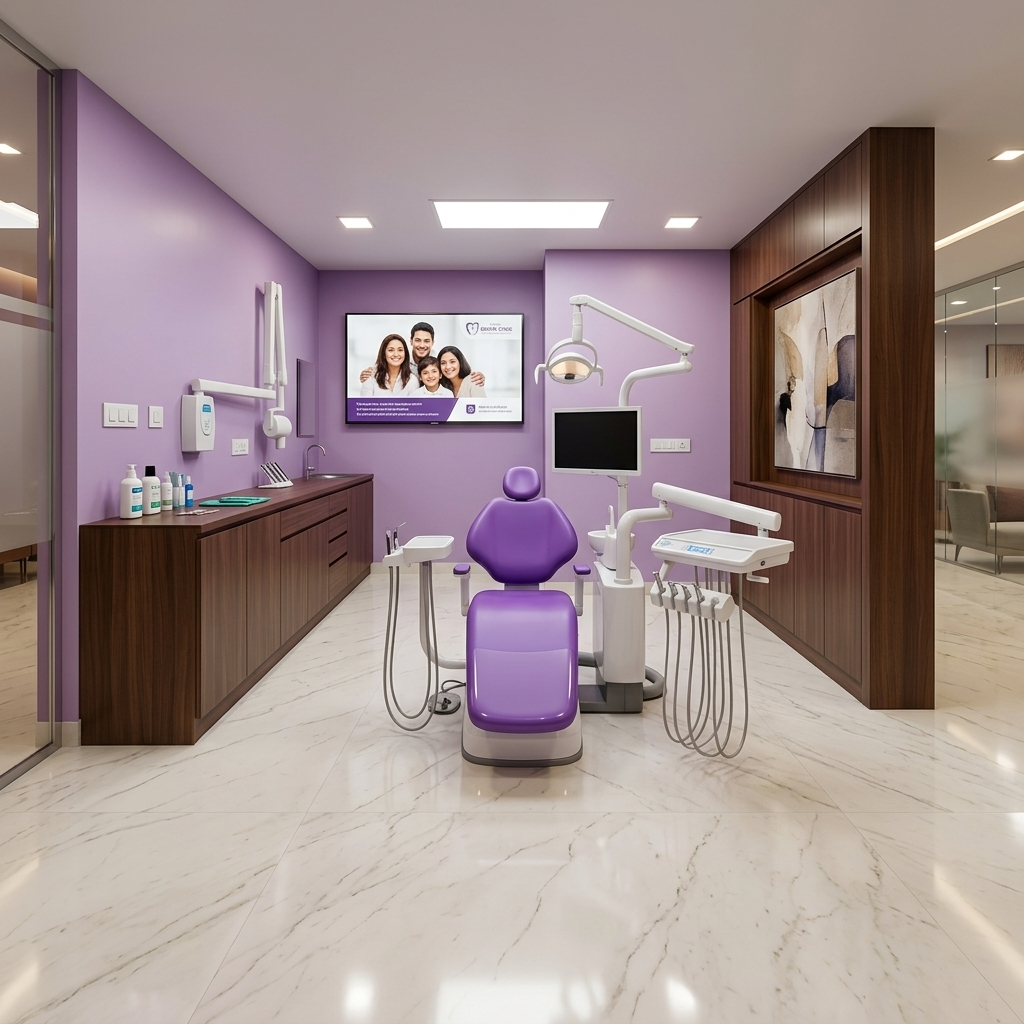
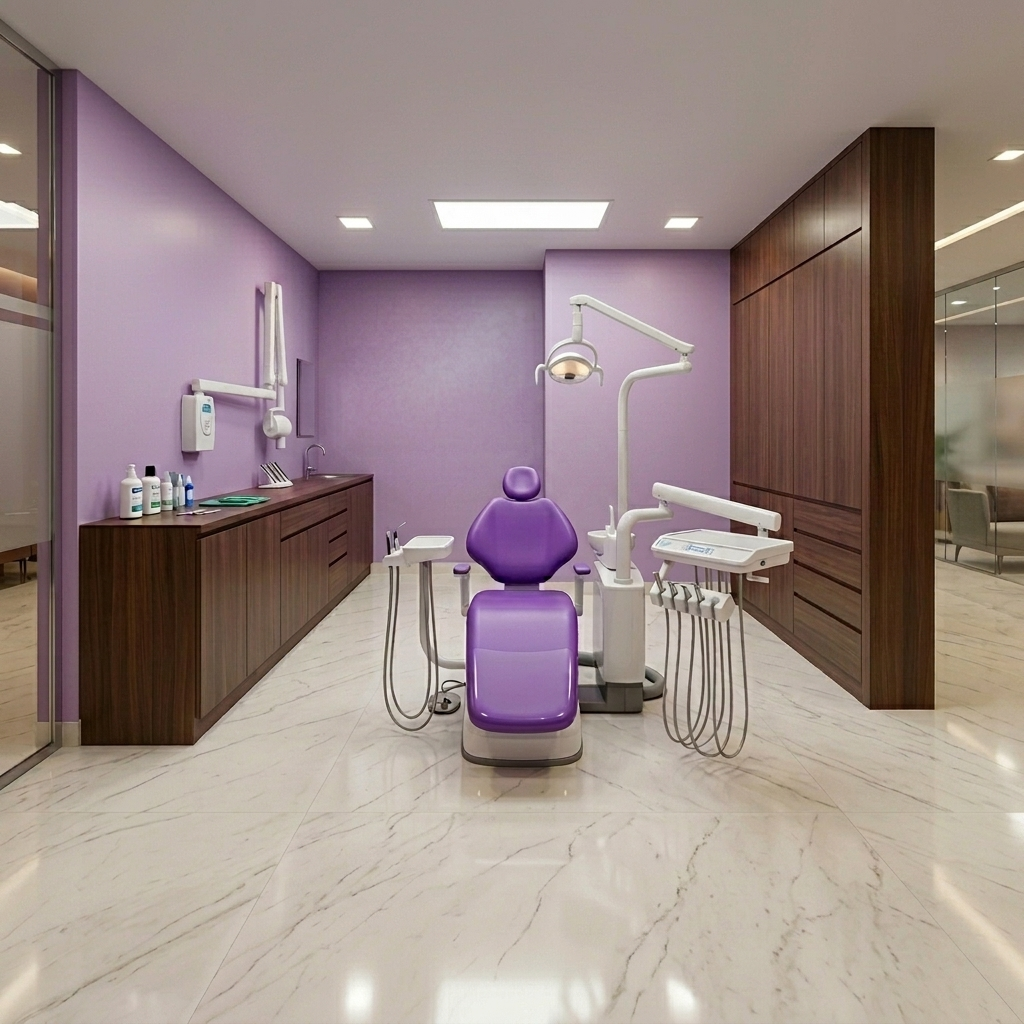
Update hero image to clean version and adjust alignment for better chair visibility

diff --git a/src/index.css b/src/index.css
@@ -4127,7 +4127,7 @@ h3 {
   width: 100%;
   height: 100%;
   object-fit: cover;
-  object-position: 65% 45%; /* Shift chair slightly right */
+  object-position: 95% 45%; /* Push chair to the right for visibility */
   display: block;
 }
 
